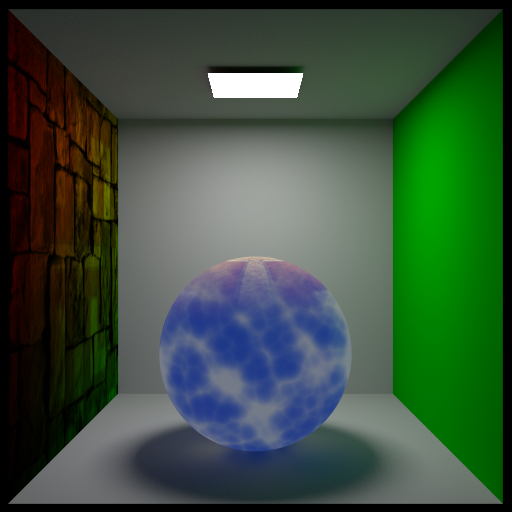
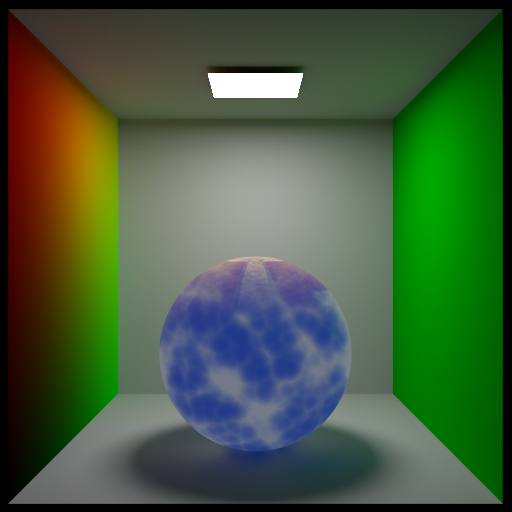
fixed single argument proc tex bug

Changed region(s): [[0.0, 0.0312, 0.25, 0.9062], [0.375, 0.6562, 0.4062, 0.6875]]

diff --git a/main/testsB.cpp b/main/testsB.cpp
@@ -283,15 +283,15 @@ bool test82_proc_texture()
   //
   HRTextureNodeRef texBitmap1 = hrTexture2DCreateFromFile(L"data/textures/texture1.bmp");
   HRTextureNodeRef texBitmap2 = hrTexture2DCreateFromFile(L"data/textures/300px-Bump2.jpg");
-  HRTextureNodeRef texProc    = hrTextureCreateAdvanced(L"proc", L"my_custom_faloff"); 
-  HRTextureNodeRef texProc2   = hrTextureCreateAdvanced(L"proc", L"my_custom_faloff");
+  HRTextureNodeRef texProc    = hrTextureCreateAdvanced(L"proc", L"my_custom_tex");
+  HRTextureNodeRef texProc2   = hrTextureCreateAdvanced(L"proc", L"my_custom_tex2");
 
   hrTextureNodeOpen(texProc, HR_WRITE_DISCARD);
   {
     xml_node texNode = hrTextureParamNode(texProc);
    
     xml_node code_node = texNode.append_child(L"code");
-    code_node.append_attribute(L"file") = L"data/code/mul_tex_coord.c";
+    code_node.append_attribute(L"file") = L"data/code/mul_tex_coord2.c";
     code_node.append_attribute(L"main") = L"userProc";
   }
   hrTextureNodeClose(texProc);
@@ -382,38 +382,16 @@ bool test82_proc_texture()
     texNode.append_attribute(L"input_alpha").set_value(L"rgb");
     
     HydraXMLHelpers::WriteMatrix4x4(texNode, L"matrix", samplerMatrix);
-
-
+    
     // proc texture sampler settings
     //
     xml_node p1 = texNode.append_child(L"arg"); 
-    xml_node p2 = texNode.append_child(L"arg");
-    xml_node p3 = texNode.append_child(L"arg");
-    xml_node p4 = texNode.append_child(L"arg");
-   
+    
     p1.append_attribute(L"id")   = 0;
-    p1.append_attribute(L"name") = L"texId1";
-    p1.append_attribute(L"type") = L"sampler2D";
+    p1.append_attribute(L"name") = L"color";
+    p1.append_attribute(L"type") = L"float4";
     p1.append_attribute(L"size") = 1;
-    p1.append_attribute(L"val")  = texBitmap1.id;
-     
-    p2.append_attribute(L"id")   = 1;
-    p2.append_attribute(L"name") = L"texId2";
-    p2.append_attribute(L"type") = L"sampler2D";
-    p2.append_attribute(L"size") = 1;
-    p2.append_attribute(L"val")  = texBitmap2.id;
-
-    p3.append_attribute(L"id")   = 3;
-    p3.append_attribute(L"name") = L"offset";
-    p3.append_attribute(L"type") = L"float2";
-    p3.append_attribute(L"size") = 1;
-    p3.append_attribute(L"val")  = L"0 0";
-
-    p4.append_attribute(L"id")   = 4;
-    p4.append_attribute(L"name") = L"color";
-    p4.append_attribute(L"type") = L"float4";
-    p4.append_attribute(L"size") = 1;
-    p4.append_attribute(L"val")  = L"1 1 1 1";
+    p1.append_attribute(L"val")  = L"1 1 1 1";
   }
   hrMaterialClose(mat1);
 
@@ -542,9 +520,8 @@ bool test82_proc_texture()
 
     node.append_child(L"trace_depth").text()      = L"8";
     node.append_child(L"diff_trace_depth").text() = L"4";
-    node.append_child(L"maxRaysPerPixel").text()  = L"2048";
-
-    node.append_child(L"evalgbuffer").text() = 1;
+    node.append_child(L"maxRaysPerPixel").text()  = 1024;
+    node.append_child(L"evalgbuffer").text()      = 1;
   }
   hrRenderClose(renderRef);
 
@@ -590,7 +567,7 @@ bool test82_proc_texture()
       glDrawPixels(512, 512, GL_RGBA, GL_UNSIGNED_BYTE, &image[0]);
 
       auto pres = std::cout.precision(2);
-      std::cout << "rendering progress = " << info.progress << "% \r";
+      std::cout << "rendering progress = " << info.progress << "% \r"; std::cout.flush();
       std::cout.precision(pres);
 
       glfwSwapBuffers(g_window);
@@ -915,7 +892,7 @@ bool test83_proc_texture2()
       glDrawPixels(512, 512, GL_RGBA, GL_UNSIGNED_BYTE, &image[0]);
 
       auto pres = std::cout.precision(2);
-      std::cout << "rendering progress = " << info.progress << "% \r";
+      std::cout << "rendering progress = " << info.progress << "% \r"; std::cout.flush();
       std::cout.precision(pres);
 
       glfwSwapBuffers(g_window);
@@ -1263,7 +1240,7 @@ bool test84_proc_texture2()
       glDrawPixels(512, 512, GL_RGBA, GL_UNSIGNED_BYTE, &image[0]);
 
       auto pres = std::cout.precision(2);
-      std::cout << "rendering progress = " << info.progress << "% \r";
+      std::cout << "rendering progress = " << info.progress << "% \r"; std::cout.flush();
       std::cout.precision(pres);
 
       glfwSwapBuffers(g_window);
@@ -1623,7 +1600,7 @@ bool test85_proc_texture_ao()
       glDrawPixels(512, 512, GL_RGBA, GL_UNSIGNED_BYTE, &image[0]);
 
       auto pres = std::cout.precision(2);
-      std::cout << "rendering progress = " << info.progress << "% \r";
+      std::cout << "rendering progress = " << info.progress << "% \r"; std::cout.flush();
       std::cout.precision(pres);
 
       glfwSwapBuffers(g_window);
@@ -1980,7 +1957,7 @@ bool test86_proc_texture_ao_dirt()
       glDrawPixels(512, 512, GL_RGBA, GL_UNSIGNED_BYTE, &image[0]);
 
       auto pres = std::cout.precision(2);
-      std::cout << "rendering progress = " << info.progress << "% \r";
+      std::cout << "rendering progress = " << info.progress << "% \r"; std::cout.flush();
       std::cout.precision(pres);
 
       glfwSwapBuffers(g_window);
@@ -2344,7 +2321,7 @@ bool test87_proc_texture_reflect()
       glDrawPixels(512, 512, GL_RGBA, GL_UNSIGNED_BYTE, &image[0]);
 
       auto pres = std::cout.precision(2);
-      std::cout << "rendering progress = " << info.progress << "% \r";
+      std::cout << "rendering progress = " << info.progress << "% \r"; std::cout.flush();
       std::cout.precision(pres);
 
       glfwSwapBuffers(g_window);
@@ -3174,7 +3151,7 @@ bool test89_proc_texture_dirty()
       glDrawPixels(w, h, GL_RGBA, GL_UNSIGNED_BYTE, &image[0]);
 
       auto pres = std::cout.precision(2);
-      std::cout << "rendering progress = " << info.progress << "% \r";
+      std::cout << "rendering progress = " << info.progress << "% \r"; std::cout.flush();
       std::cout.precision(pres);
 
       glfwSwapBuffers(g_window);

diff --git a/hydra_api/HydraAPI_TextureProcLex.cpp b/hydra_api/HydraAPI_TextureProcLex.cpp
@@ -116,10 +116,13 @@ int SizeOfInputTypeInWords(const std::string& a_type)
 
 void PopArgument(const std::string& argList, std::vector<Arg>& a_outList)
 {
-  std::smatch m;
-  std::regex args("([a-zA-Z_][a-zA-Z0-9_]*)([\\n|\\s]+)([a-zA-Z_][a-zA-Z0-9_]*)(\\[[0-9_]\\])*(\\,|\\))(.*)");
+  std::smatch m;  //
+  std::regex args("([a-zA-Z_][a-zA-Z0-9_]*)\\**([\\n|\\s]+)\\**([a-zA-Z_][a-zA-Z0-9_]*)\\**(\\[[0-9_]\\])*(\\,|\\))(.*)");
   std::regex_search(argList, m, args);
-
+  
+  //for(int i=0;i<m.size();i++)
+    //std::cout << i << "\t:\t" << m[i].str().c_str() << std::endl;
+  
   if (m.size() >= 3)
   {
     Arg arg;
@@ -132,8 +135,9 @@ void PopArgument(const std::string& argList, std::vector<Arg>& a_outList)
       std::string arraySize = m[4].str().substr(1, m[4].str().size() - 2);
       arg.size = atoi(arraySize.c_str())*SizeOfInputTypeInWords(arg.type);
     }
-
-    a_outList.push_back(arg);
+  
+    if(arg.type != "const" && arg.name != "SurfaceInfo" && arg.type != "SurfaceInfo")
+      a_outList.push_back(arg);
   }
   else
   {
@@ -156,7 +160,10 @@ void PopArgument(const std::string& argList, std::vector<Arg>& a_outList)
         a_outList.push_back(arg);
     }
   }
-
+  
+  //for(int i=0;i<m.size();i++)
+    //std::cout << i << "\t:\t" << m[i].str().c_str() << std::endl;
+  
   if (m.size() >= 6)
     PopArgument(m[6].str(), a_outList);
 }

diff --git a/main/main.cpp b/main/main.cpp
@@ -126,7 +126,7 @@ int main(int argc, const char** argv)
   
   try
   {
-    // run_all_api_tests();
+    // run_all_api_tests(82);
 	  // run_all_geo_tests();
     // run_all_lgt_tests();
     // run_all_mtl_tests();
@@ -134,8 +134,10 @@ int main(int argc, const char** argv)
 
     // std::cout << test84_proc_texture2() << std::endl;
     // std::cout << test41_load_library_basic() << std::endl;
-
-    test35_cornell_with_light();
+  
+    std::cout << test82_proc_texture()  << std::endl;
+    std::cout << test84_proc_texture2() << std::endl;
+    
     //std::cout << test39_mesh_from_vsgf() << std::endl;
     //std::cout << test40_several_changes() << std::endl;
   
